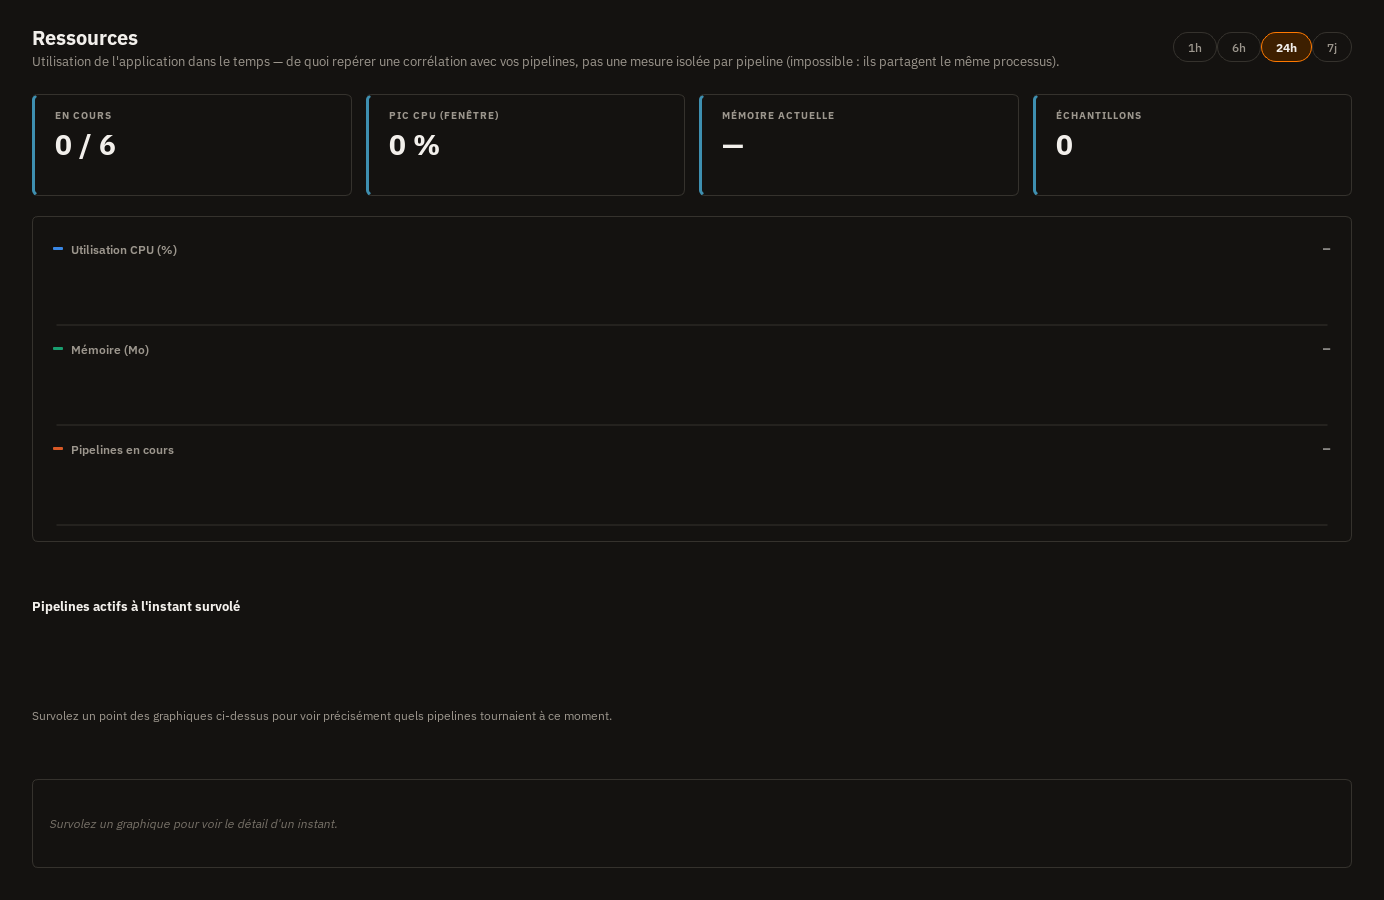
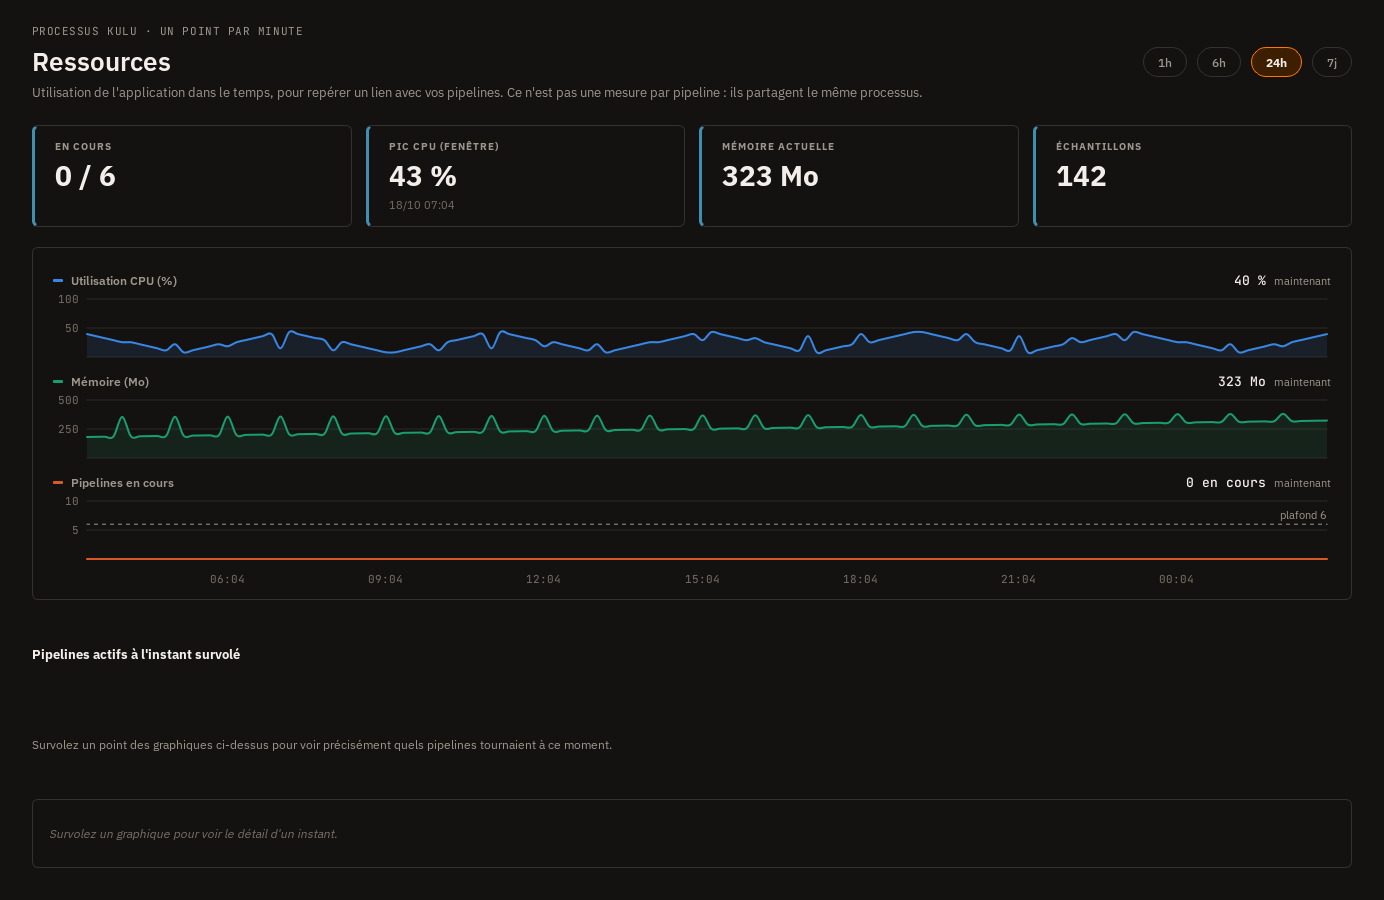
refonte(lot-A-ressources): captures des etats de Ressources
scripts/capture_views.py etend le registre avec 4 etats : ressources (24h
avec echantillons, remplace l'ancien "ressources" qui montrait en realite
l'etat vide par defaut), ressources-survol (meme jeu de donnees + survol
simule), ressources-7j, ressources-vide (desormais explicitement nomme,
construit sans aucun echantillon). Ordre du registre important : chaque
fabrique "ressources*" ajoute ses echantillons a la meme base jetable
partagee par tout le registre - "-vide" doit passer avant que quoi que ce
soit n'en insere, "-7j" avant les echantillons plus denses de "ressources"/
"-survol" pour ne pas superposer les deux series dans la meme fenetre 7j.
Ressources-plage n'est pas capture : glisser pour choisir une plage est C2,
gated.

diff --git a/scripts/capture_views.py b/scripts/capture_views.py
@@ -85,9 +85,46 @@ def _settings_view_enregistre():
     return view
 
 
-def _resources_view():
+def _resources_view_vide():
     from ui.main_window.resources_view import ResourcesView
     return ResourcesView()
+
+
+def _seed_resource_samples(count: int, step_minutes: int):
+    """Échantillons déterministes (pas de random — capture reproductible d'une exécution à
+    l'autre), une ondulation simple pour que les graphiques ne soient pas des droites plates."""
+    from datetime import datetime, timedelta
+    from database.models import ResourceSample
+    now = datetime.utcnow()
+    with db.get_session() as s:
+        for i in range(count):
+            ts = now - timedelta(minutes=(count - i) * step_minutes)
+            wave = abs((i % 20) - 10) / 10
+            s.add(ResourceSample(
+                timestamp=ts,
+                cpu_percent=min(8.0 + 35.0 * wave, 95.0),
+                memory_mb=180.0 + i * 1.2,
+            ))
+
+
+def _resources_view():
+    from ui.main_window.resources_view import ResourcesView
+    _seed_resource_samples(count=120, step_minutes=12)   # ~24h d'échantillons
+    return ResourcesView()
+
+
+def _resources_view_survol():
+    view = _resources_view()
+    view._on_chart_hover(60)
+    return view
+
+
+def _resources_view_7j():
+    from ui.main_window.resources_view import ResourcesView
+    _seed_resource_samples(count=168, step_minutes=60)   # un point par heure, 7 jours
+    view = ResourcesView()
+    view._on_range_changed(24 * 7)
+    return view
 
 
 def _dashboard_view():
@@ -98,6 +135,8 @@ def _dashboard_view():
 # (nom de fichier sans extension, fabrique de la vue) — un enregistrement par vue/état capturable.
 # Parametres-validation n'est pas capturé : son contenu distinctif (bandeau de validation en
 # ligne par champ) est C3, gated par la décision P1 — voir docs/refonte/impact/a-parametres.md.
+# Ressources-plage n'est pas capturé non plus : glisser pour choisir une plage est C2, gated —
+# voir docs/refonte/impact/a-ressources.md.
 REGISTRY = [
     ("parametres", _settings_view),
     ("parametres-recherche", _settings_view_recherche),
@@ -105,7 +144,14 @@ REGISTRY = [
     ("parametres-refus", _settings_view_refus),
     ("parametres-notifications", _settings_view_notifications_hebdomadaire),
     ("parametres-enregistre", _settings_view_enregistre),
+    # Ordre important : capture_all() partage une seule base pour tout le registre, et chaque
+    # fabrique "ressources*" y ajoute ses propres échantillons — "-vide" doit passer avant que
+    # quoi que ce soit n'en insère, "-7j" avant les échantillons plus denses de "ressources"/
+    # "-survol" (sinon les deux séries se superposent dans la même fenêtre 7j).
+    ("ressources-vide", _resources_view_vide),
+    ("ressources-7j", _resources_view_7j),
     ("ressources", _resources_view),
+    ("ressources-survol", _resources_view_survol),
     ("aujourdhui", _dashboard_view),
 ]
 
